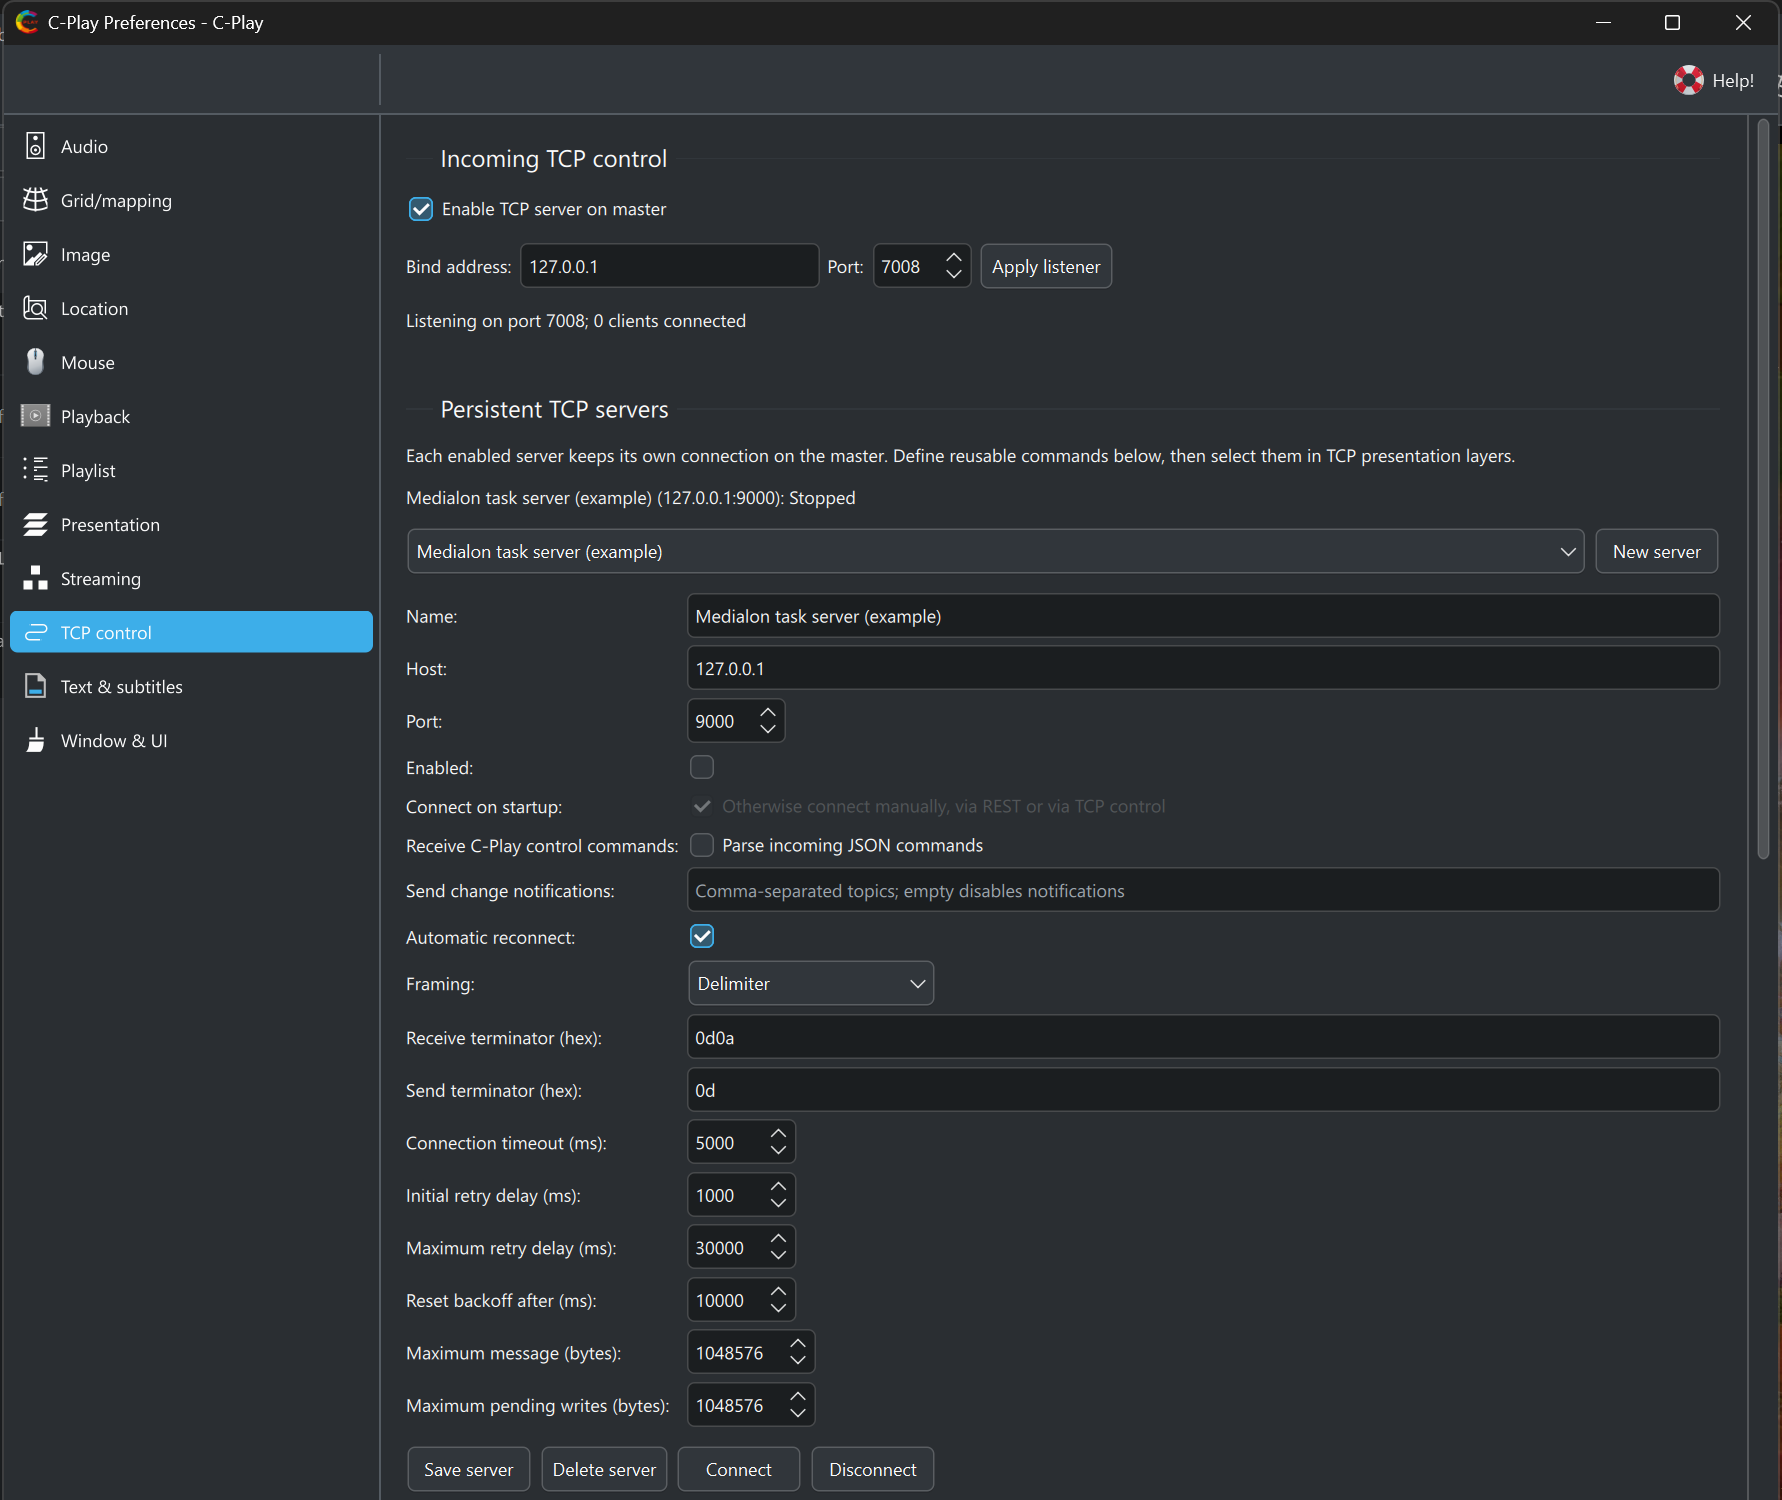
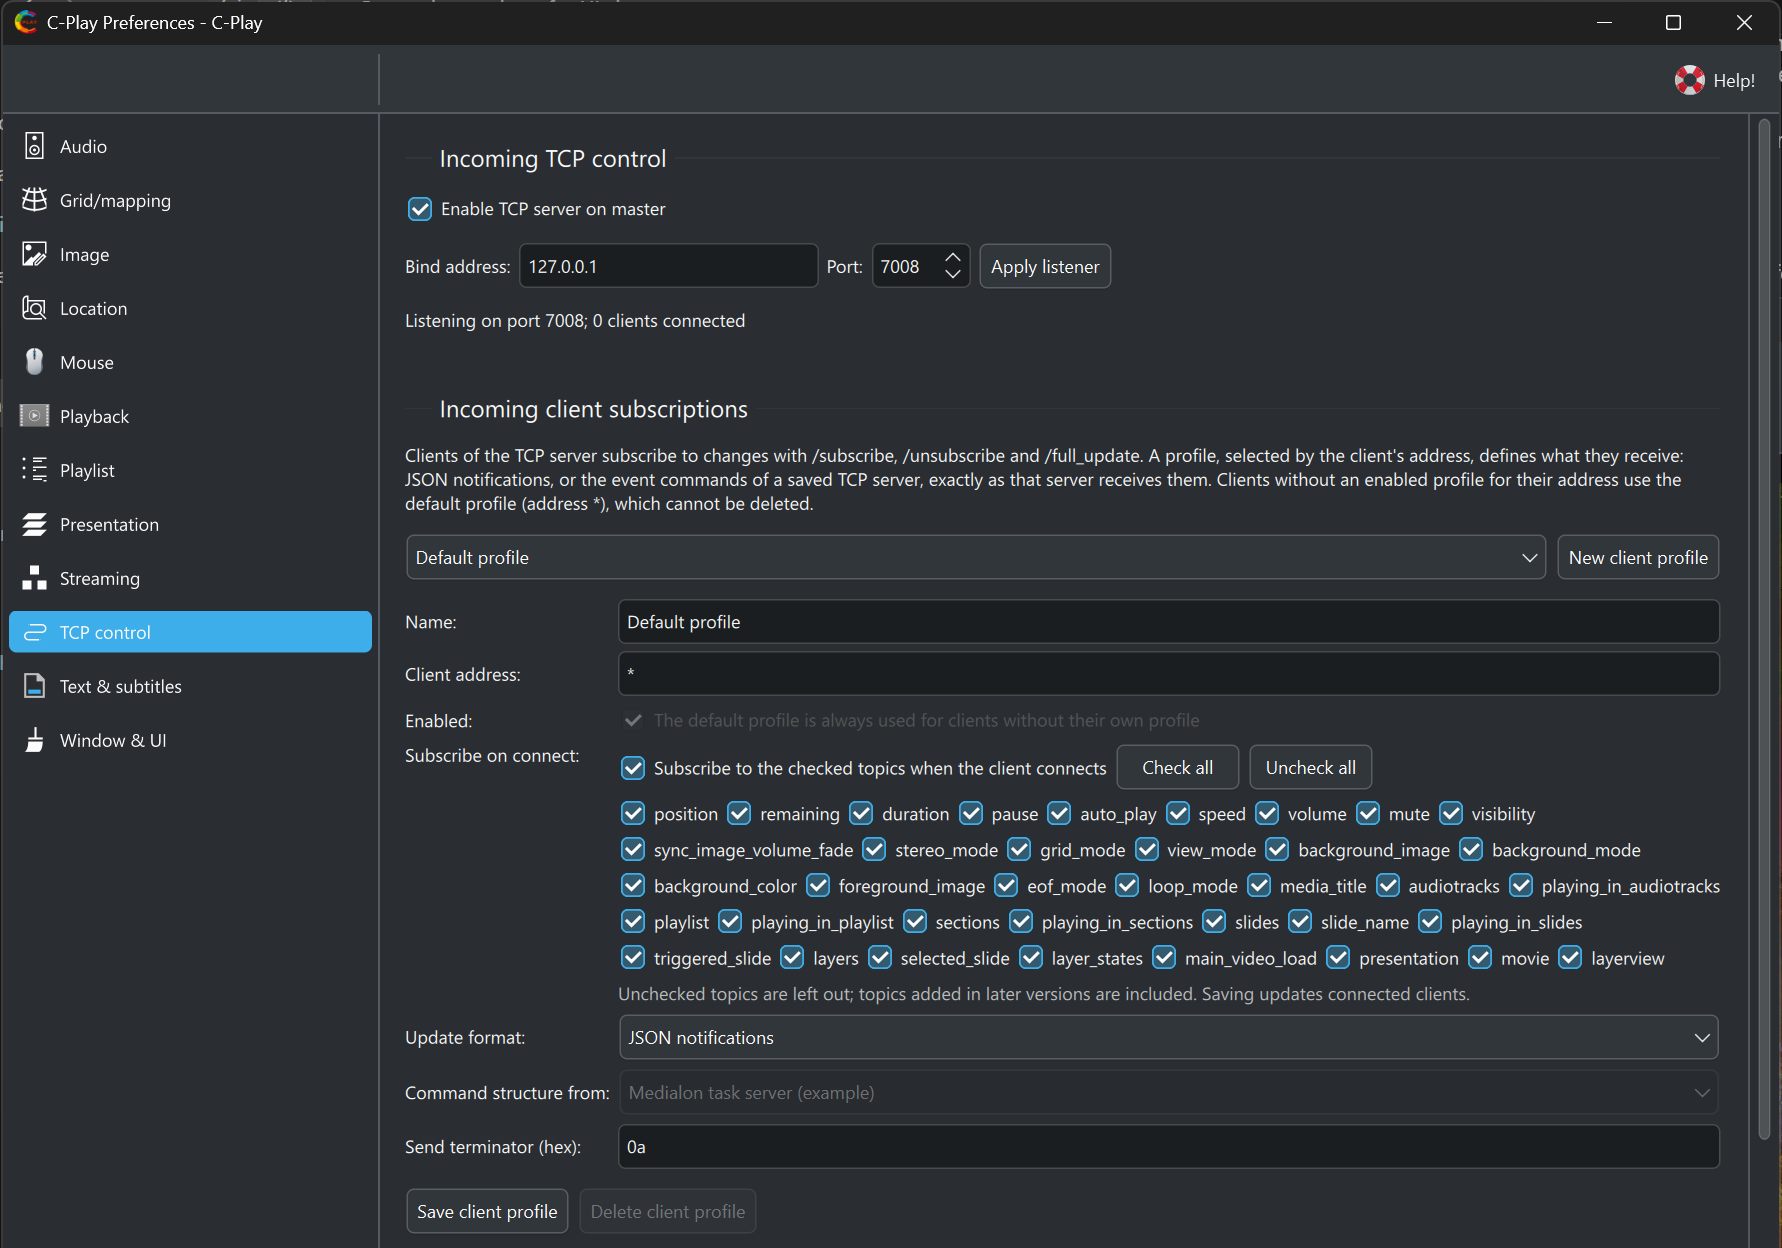
Added availability for C-Play to control subscriptions from TCP clients.

diff --git a/src/qml/qt6/Settings/TcpControlSettingsPage.qml b/src/qml/qt6/Settings/TcpControlSettingsPage.qml
@@ -19,6 +19,8 @@ SettingsBasePage {
     property string triggerResult: ""
     property string incomingId: ""
     property string incomingCommandServerId: ""
+    // Topics left out of the profile's on-connect subscription to all topics.
+    property var incomingExcluded: []
 
     function findIndex(items, id) {
         for (var i = 0; i < items.length; ++i)
@@ -82,16 +84,30 @@ SettingsBasePage {
         incomingName.text = p ? p.name : "";
         incomingAddress.text = p ? p.address : "";
         incomingEnabled.checked = p ? p.enabled : true;
-        incomingTopics.text = p && p.eventTopics ? p.eventTopics.join(", ") : "";
+        // New profiles subscribe to all topics; explicit topic lists show as all minus the others.
+        var subscribed = p && p.eventTopics ? p.eventTopics : ["*"];
+        incomingSubscribe.checked = subscribed.length > 0;
+        if (subscribed.indexOf("*") >= 0)
+            incomingExcluded = p && p.excludedTopics ? p.excludedTopics.slice() : [];
+        else if (subscribed.length > 0)
+            incomingExcluded = manager.eventTopics.filter(function(topic) { return subscribed.indexOf(topic) < 0; });
+        else
+            incomingExcluded = [];
         incomingFormat.currentIndex = p && p.eventFormat === "commands" ? 1 : 0;
         incomingCommandServerId = p && p.commandServerId ? p.commandServerId
             : (manager.servers.length ? manager.servers[0].id : "");
         incomingSendHex.text = p ? p.sendTerminatorHex : "0a";
     }
+    function setIncomingTopic(topic, subscribed) {
+        var excluded = incomingExcluded.filter(function(value) { return value !== topic; });
+        if (!subscribed) excluded.push(topic);
+        incomingExcluded = excluded;
+    }
     function saveIncoming() {
         var id = manager.saveIncomingClient({id: incomingId, name: incomingName.text,
             address: incomingAddress.text, enabled: incomingEnabled.checked,
-            eventTopics: topics(incomingTopics.text),
+            eventTopics: incomingSubscribe.checked ? ["*"] : [],
+            excludedTopics: incomingSubscribe.checked ? incomingExcluded : [],
             eventFormat: incomingFormat.currentIndex === 1 ? "commands" : "json",
             commandServerId: incomingCommandServerId, sendTerminatorHex: incomingSendHex.text});
         if (id !== "") incomingId = id;
@@ -174,10 +190,45 @@ SettingsBasePage {
                 id: incomingEnabled; enabled: root.incomingId !== "*"
                 text: root.incomingId === "*" ? qsTr("The default profile is always used for clients without their own profile") : ""
             }
-            Label { text: qsTr("Subscribe on connect:") }
-            TextField {
-                id: incomingTopics; Layout.fillWidth: true
-                placeholderText: qsTr("Comma-separated topics, * for all; empty waits for /subscribe")
+            Label { text: qsTr("Subscribe on connect:"); Layout.alignment: Qt.AlignTop }
+            ColumnLayout {
+                Layout.fillWidth: true
+                RowLayout {
+                    CheckBox {
+                        id: incomingSubscribe
+                        text: qsTr("Subscribe to the checked topics when the client connects")
+                    }
+                    Button {
+                        text: qsTr("Check all"); enabled: incomingSubscribe.checked
+                        onClicked: root.incomingExcluded = []
+                    }
+                    Button {
+                        text: qsTr("Uncheck all"); enabled: incomingSubscribe.checked
+                        onClicked: root.incomingExcluded = root.manager.eventTopics.slice()
+                    }
+                }
+                Flow {
+                    Layout.fillWidth: true; spacing: 4; enabled: incomingSubscribe.checked
+                    Repeater {
+                        model: root.manager.eventTopics
+                        delegate: CheckBox {
+                            required property string modelData
+                            text: modelData
+                            checked: root.incomingExcluded.indexOf(modelData) < 0
+                            onToggled: {
+                                root.setIncomingTopic(modelData, checked);
+                                // Keep following the profile when another profile is selected.
+                                checked = Qt.binding(function() { return root.incomingExcluded.indexOf(modelData) < 0; });
+                            }
+                        }
+                    }
+                }
+                Label {
+                    Layout.fillWidth: true; wrapMode: Text.WordWrap; opacity: 0.7
+                    text: incomingSubscribe.checked
+                        ? qsTr("Unchecked topics are left out; topics added in later versions are included. Saving updates connected clients.")
+                        : qsTr("Clients wait for /subscribe.")
+                }
             }
             Label { text: qsTr("Update format:") }
             ComboBox { id: incomingFormat; Layout.fillWidth: true; model: [qsTr("JSON notifications"), qsTr("Event commands of a TCP server")] }

diff --git a/src/tcp/tcpcontrolmanager.cpp b/src/tcp/tcpcontrolmanager.cpp
@@ -80,6 +80,17 @@ QByteArray eventValueBytes(const QJsonValue &value, int charsPerItem) {
 }
 }
 
+// Topics a profile subscribes its clients to on connect: eventTopics, with * minus excludedTopics.
+static QStringList connectTopics(const QVariantMap &profile) {
+    auto topics = profile.value(QStringLiteral("eventTopics")).toStringList();
+    const auto excluded = profile.value(QStringLiteral("excludedTopics")).toStringList();
+    if (topics.contains(QStringLiteral("*")) && !excluded.isEmpty()) {
+        topics = ControlEventFeed::availableTopics();
+        for (const auto &topic : excluded) topics.removeAll(topic);
+    }
+    return topics;
+}
+
 TcpControlManager::TcpControlManager(QObject *parent, const QString &path)
     : QObject(parent), m_listener(new TcpControlServer(this)), m_configurationPath(path) {
     connect(m_listener, &TcpControlServer::clientConnected, this, [this](quint64 id, const QString &address, int port) {
@@ -89,7 +100,7 @@ TcpControlManager::TcpControlManager(QObject *parent, const QString &path)
         m_sessions.insert(id, session);
         applyIncomingProfile(id);
         // A profile can subscribe its clients on connect, like a server's notification topics.
-        const auto topics = m_sessions.value(id).profile.value(QStringLiteral("eventTopics")).toStringList();
+        const auto topics = connectTopics(m_sessions.value(id).profile);
         if (!topics.isEmpty()) subscribeIncoming(id, topics);
         Q_EMIT incomingSessionsChanged();
     });
@@ -240,8 +251,17 @@ bool TcpControlManager::normalizeIncomingClient(const QVariantMap &input, const 
         host.setScopeId({});
         address = host.toString().toLower();
     }
-    const auto topics = input.value(QStringLiteral("eventTopics")).toStringList();
-    if (!ControlEventFeed::validateTopics(topics)) {
+    // Profiles subscribe to all topics on connect unless eventTopics says otherwise.
+    QStringList topics = input.contains(QStringLiteral("eventTopics"))
+        ? input.value(QStringLiteral("eventTopics")).toStringList() : QStringList{QStringLiteral("*")};
+    if (topics.contains(QStringLiteral("*"))) topics = {QStringLiteral("*")};
+    // excludedTopics removes single topics from *, so topics added later are still subscribed.
+    QStringList excluded;
+    if (topics.contains(QStringLiteral("*")))
+        for (const auto &value : input.value(QStringLiteral("excludedTopics")).toStringList())
+            if (!value.trimmed().isEmpty() && !excluded.contains(value.trimmed())) excluded.append(value.trimmed());
+    if (!ControlEventFeed::validateTopics(topics) || excluded.contains(QStringLiteral("*"))
+        || !ControlEventFeed::validateTopics(excluded)) {
         error(tr("Unknown incoming client event topic"));
         return false;
     }
@@ -269,6 +289,7 @@ bool TcpControlManager::normalizeIncomingClient(const QVariantMap &input, const 
         {QStringLiteral("address"), address}, {QStringLiteral("enabled"), isDefault || input.value(QStringLiteral("enabled"), true).toBool()},
         {QStringLiteral("eventTopics"), topics}, {QStringLiteral("eventFormat"), format},
         {QStringLiteral("sendTerminatorHex"), sendHex.toLower()} };
+    if (!excluded.isEmpty()) output.insert(QStringLiteral("excludedTopics"), excluded);
     if (format == QStringLiteral("commands")) output.insert(QStringLiteral("commandServerId"), commandServerId);
     return true;
 }
@@ -276,7 +297,7 @@ bool TcpControlManager::normalizeIncomingClient(const QVariantMap &input, const 
 QVariantMap TcpControlManager::builtInIncomingClient() {
     return { {QStringLiteral("id"), defaultIncomingClientId()}, {QStringLiteral("name"), tr("Default profile")},
         {QStringLiteral("address"), defaultIncomingClientId()}, {QStringLiteral("enabled"), true},
-        {QStringLiteral("eventTopics"), QStringList()}, {QStringLiteral("eventFormat"), QStringLiteral("json")},
+        {QStringLiteral("eventTopics"), QStringList{QStringLiteral("*")}}, {QStringLiteral("eventFormat"), QStringLiteral("json")},
         {QStringLiteral("sendTerminatorHex"), QStringLiteral("0a")} };
 }
 
@@ -980,8 +1001,15 @@ void TcpControlManager::applyIncomingProfile(quint64 id) {
     if (it == m_sessions.end()) return;
     const auto profile = incomingClientProfile(it->address);
     if (profile != it->profile) it->lastTimePayloads.clear();
+    // Connected clients follow a changed on-connect subscription, replacing their own subscriptions.
+    const bool resubscribe = !it->profile.isEmpty() && connectTopics(profile) != connectTopics(it->profile);
     it->profile = profile;
     m_listener->setTerminator(id, QByteArray::fromHex(profile.value(QStringLiteral("sendTerminatorHex"), QStringLiteral("0a")).toByteArray()));
+    if (resubscribe) {
+        it->topics.clear();
+        const auto topics = connectTopics(profile);
+        if (!topics.isEmpty()) subscribeIncoming(id, topics);
+    }
 }
 
 QVariantList TcpControlManager::incomingCommands(quint64 id) const {

diff --git a/docs/docs/remote-control/tcp.md b/docs/docs/remote-control/tcp.md
@@ -287,16 +287,17 @@ POST /full_update?topics=playlist
 | `/unsubscribe` | Comma-separated topics; omitted, empty or `*` clears the subscription. | Removes the topics. Removing single topics from an all-topics subscription keeps all other topics. |
 | `/full_update` | Comma-separated topics; omitted or empty means all. | Sends the current values once, without changing the subscription. |
 
-JSON clients send the same actions as `{"path":"/subscribe","parameters":{"topics":"volume,playlist"}}`. The reply is sent first, for example `{"accepted":true,"status":200,"message":"Subscribed","topics":["volume","playlist"]}`. `topics` lists the connection's subscription after the change; for `/full_update` it lists the requested topics. Unknown topics return `accepted:false` with status 400 and change nothing. Subscriptions belong to the connection: they end when the client disconnects, unless its profile subscribes again on connect (below). Changes are sampled every 100 ms, as for the TCP Control Client, and are not replayed after a reconnect.
+JSON clients send the same actions as `{"path":"/subscribe","parameters":{"topics":"volume,playlist"}}`. The reply is sent first, for example `{"accepted":true,"status":200,"message":"Subscribed","topics":["volume","playlist"]}`. `topics` lists the connection's subscription after the change; for `/full_update` it lists the requested topics. Unknown topics return `accepted:false` with status 400 and change nothing. Subscriptions belong to the connection: they end when the client disconnects. By default, the client's profile subscribes it to all topics again on connect (below), so a reconnecting client such as Medialon needs no `/subscribe` of its own. Changes are sampled every 100 ms, as for the TCP Control Client, and are not replayed after a reconnect.
 
-What a client receives depends on the **incoming client profile** for its address. A profile is selected by the client's IP address as C-Play sees it, so IPv4 clients of a dual-stack listener still match their IPv4 address. Every client without an enabled profile for its exact address uses the **default profile**, address `*`. The default profile always exists: C-Play adds it to a configuration without one, it cannot be deleted, and its address and `enabled` flag cannot be changed. Edit it to change what unknown clients receive. Its built-in settings are the name **Default profile**, JSON notifications, the LF terminator and no subscription on connect.
+What a client receives depends on the **incoming client profile** for its address. A profile is selected by the client's IP address as C-Play sees it, so IPv4 clients of a dual-stack listener still match their IPv4 address. Every client without an enabled profile for its exact address uses the **default profile**, address `*`. The default profile always exists: C-Play adds it to a configuration without one, it cannot be deleted, and its address and `enabled` flag cannot be changed. Edit it to change what unknown clients receive. Its built-in settings are the name **Default profile**, JSON notifications, the LF terminator and a subscription to all topics on connect.
 
 | Field | Default | Meaning |
 | --- | --- | --- |
 | `id`, `name` | derived address, required name | The profile ID is the canonical client address, or `*`. |
 | `address` | required | Numeric IPv4/IPv6 address of the client, or `*` for the default profile. |
 | `enabled` | `true` | Disabled profiles are ignored when matching; their clients use the default profile. Always `true` for the default profile. |
-| `eventTopics` | `[]` | Topics subscribed automatically when the client connects, `*` for all. Use this for clients that reconnect automatically, such as Medialon, so they never miss their subscription. |
+| `eventTopics` | `["*"]` | Topics subscribed automatically when the client connects, `*` for all; `[]` waits for `/subscribe`. Clients that reconnect automatically, such as Medialon, then never miss their subscription. |
+| `excludedTopics` | `[]` | Topics left out of an `eventTopics: ["*"]` subscription. Topics added in later C-Play versions are still subscribed. Ignored for explicit topic lists. |
 | `eventFormat` | `json` | `json`: the `change` notifications and `snapshot` objects of the [outgoing client's subscriptions](#subscribe-and-query-over-tcp). `commands`: the event commands of the server `commandServerId`. |
 | `commandServerId` | — | Required for `commands`. Every reusable command of this server with **Trigger on changes** topics is sent to the client for those topics, exactly as it is sent to that server: same payload prefix, appended value, `charsPerItem`, `timeFormat` and exact-wire-bytes setting. The server itself may be disabled; it then only defines the structure. |
 | `sendTerminatorHex` | `0a` | Terminator of every reply and update sent to the client, for example `0a` (LF) or `0d` (CR, for the Medialon driver). May be empty. |
@@ -313,6 +314,7 @@ Profiles are saved in the `incomingClients` array of `tcp-control.json`:
       "address": "192.168.1.20",
       "enabled": true,
       "eventTopics": ["*"],
+      "excludedTopics": ["position", "remaining"],
       "eventFormat": "commands",
       "commandServerId": "127.0.0.1:9000",
       "sendTerminatorHex": "0d"
@@ -321,7 +323,7 @@ Profiles are saved in the `incomingClients` array of `tcp-control.json`:
 }
 ```
 
-Changing a server's endpoint updates the `commandServerId` of its profiles. A server cannot be deleted while a profile uses its commands. Edited profiles apply immediately to connected clients; their subscriptions are kept. The settings page lists connected clients with their profiles and subscribed topics.
+Changing a server's endpoint updates the `commandServerId` of its profiles. A server cannot be deleted while a profile uses its commands. Edited profiles apply immediately to connected clients. When the on-connect subscription of a client's profile changes, the client's subscription is replaced by the new one and the current values are sent; otherwise its own subscriptions are kept. The settings page lists connected clients with their profiles and subscribed topics.
 
 ## Multiple connections from C++
 

diff --git a/docs/docs/settings/tcp_control.md b/docs/docs/settings/tcp_control.md
@@ -22,7 +22,7 @@ Clients of the TCP server can subscribe to state updates with `/subscribe`, `/un
 
 * **Name** / **Client address** — Label and numeric IP address of the client. The address is the profile's ID. The **default profile** has address `*` and is used for every client without an enabled profile of its own; its address cannot be changed.
 * **Enabled** — Use this profile for matching clients; clients of a disabled profile use the default profile. Always on for the default profile.
-* **Subscribe on connect** — Comma-separated topics subscribed when the client connects, `*` for all; empty waits for `/subscribe`.
+* **Subscribe on connect** — Subscribe the client to the checked topics when it connects; when off, the client waits for `/subscribe`. On by default with all topics checked. Uncheck topics to leave them out, or use **Check all** / **Uncheck all**. Topics added in later versions are included. Saving updates the subscription of connected clients.
 * **Update format** — *JSON notifications*, or *Event commands of a TCP server*: the client receives that server's event commands (for example `cplay volume 75`) exactly as the server would.
 * **Command structure from** — The server whose event commands are used. It may be a disabled server that only defines the structure.
 * **Send terminator (hex)** — Terminator of every reply and update sent to the client: `0a` (LF) by default, `0d` (CR) for the Medialon full-duplex driver.
@@ -30,6 +30,8 @@ Clients of the TCP server can subscribe to state updates with `/subscribe`, `/un
 Use **Save client profile** and **Delete client profile** to manage the selected profile. The default profile cannot be deleted, only edited. Changes apply immediately to connected clients. Profiles are saved in `tcp-control.json`.
 
 ### Persistent TCP servers
+
+![Persistent TCP servers](/assets/ui/settings/tcp_control_servers.png)
 
 Each enabled server keeps its own outgoing connection on the master. Select a server in the list, or click **New server**, then edit:
 
